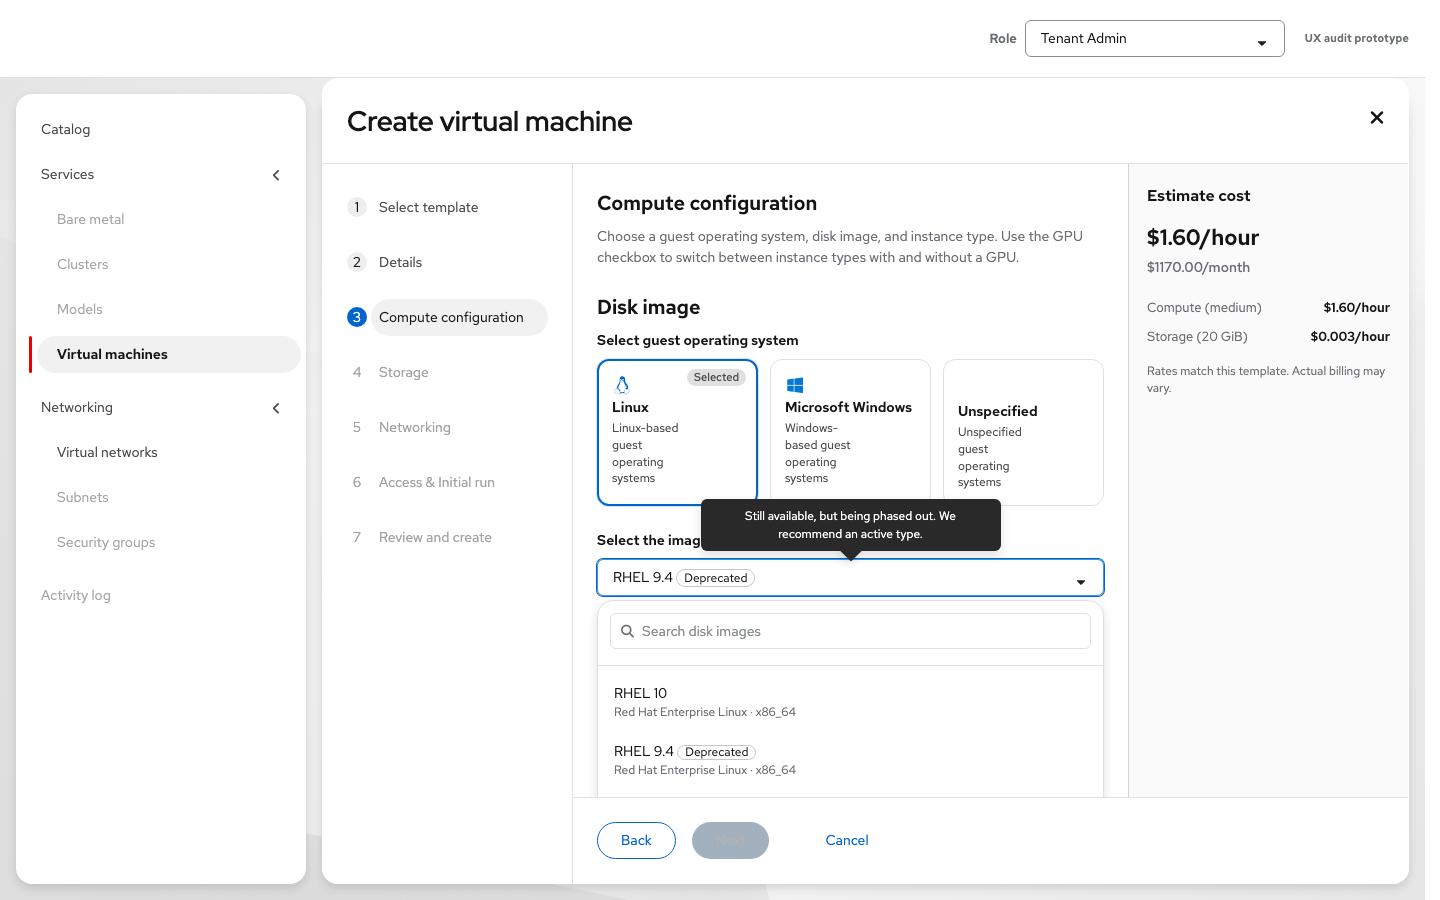
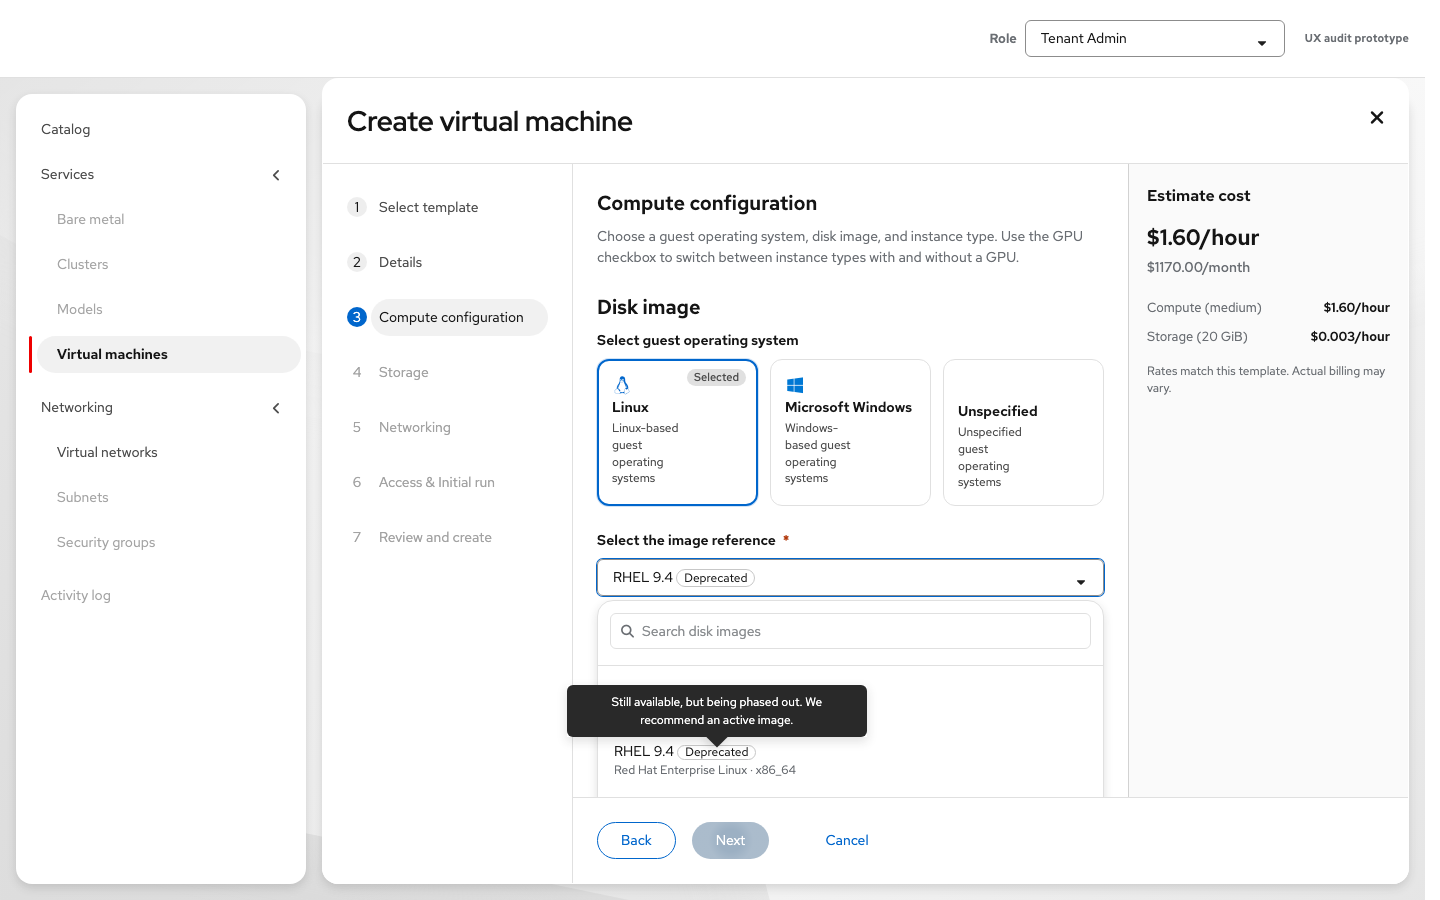
fix: anchor lifecycle tooltip to label
Assisted-by: Cursor <cursoragent@cursor.com>

Changed region(s): [[0.375, 0.7467, 0.625, 0.84], [0.4688, 0.5289, 0.7188, 0.6222]]

diff --git a/apps/app-frontend/public/vmaas-ux-prototype.html b/apps/app-frontend/public/vmaas-ux-prototype.html
@@ -8789,14 +8789,19 @@
       'Still available, but being phased out. We recommend an active type.';
     const INSTANCE_TYPE_OBSOLETE_TOOLTIP = 'Unavailable for new VMs or resizes.';
 
-    function instanceTypeLifecycleLabel(lifecycle) {
+    function instanceTypeLifecycleLabel(lifecycle, resource = 'instance type') {
       if (lifecycle !== 'Deprecated' && lifecycle !== 'Obsolete') return '';
-      return `<span class="pf-v6-c-label pf-m-outline pf-m-compact ${lifecycle === 'Deprecated' ? 'pf-m-gold' : 'pf-m-grey'}"><span class="pf-v6-c-label__content"><span class="pf-v6-c-label__text">${lifecycle}</span></span></span>`;
+      return `<span class="pf-v6-c-label pf-m-outline pf-m-compact ${lifecycle === 'Deprecated' ? 'pf-m-gold' : 'pf-m-grey'}" data-pf-tooltip="${richSelectEsc(instanceTypeLifecycleTooltip(lifecycle, resource))}"><span class="pf-v6-c-label__content"><span class="pf-v6-c-label__text">${lifecycle}</span></span></span>`;
     }
 
-    function instanceTypeLifecycleTooltip(lifecycle) {
-      return lifecycle === 'Deprecated' ? INSTANCE_TYPE_DEPRECATED_TOOLTIP
-        : lifecycle === 'Obsolete' ? INSTANCE_TYPE_OBSOLETE_TOOLTIP : '';
+    function instanceTypeLifecycleTooltip(lifecycle, resource = 'instance type') {
+      if (lifecycle === 'Deprecated') return resource === 'disk image'
+        ? 'Still available, but being phased out. We recommend an active image.'
+        : INSTANCE_TYPE_DEPRECATED_TOOLTIP;
+      if (lifecycle === 'Obsolete') return resource === 'disk image'
+        ? 'Unavailable for new VMs or catalog items.'
+        : INSTANCE_TYPE_OBSOLETE_TOOLTIP;
+      return '';
     }
 
     function vmResizeGpuSummary(id) {
@@ -9368,7 +9373,7 @@
               ariaExpanded: m.menuOpen,
               ariaControls: 'edit-compute-menu',
               stacked: true,
-              tooltip: selectedParts.lifecycle === 'Deprecated' ? INSTANCE_TYPE_DEPRECATED_TOOLTIP : '',
+              tooltip: '',
               mainHtml: `
                 <span class="rich-select__toggle-label">${richSelectEsc(selectedParts.title)} ${instanceTypeLifecycleLabel(selectedParts.lifecycle)}</span>
                 ${toggleDesc ? `<span class="rich-select__toggle-desc">${richSelectEsc(toggleDesc)}</span>` : ''}
@@ -11030,8 +11035,7 @@
     }
 
     function instanceTypeOptionTooltip(title, lifecycle) {
-      const lifecycleTooltip = instanceTypeLifecycleTooltip(lifecycle);
-      return [String(title).length > 28 ? title : '', lifecycleTooltip].filter(Boolean).join('. ');
+      return String(title).length > 28 ? title : '';
     }
 
     /**
@@ -11058,6 +11062,7 @@
       describedBy = '',
       hiddenInputId = '',
       emptyNoun = 'options',
+      resourceNoun = 'instance type',
       footerHtml = '',
     }) {
       const selected = selectedOption || options.find(o => o.id === selectedId);
@@ -11079,8 +11084,8 @@
       const useStacked = !!(stacked && selected?.desc);
       const toggleMain = selected
         ? (useStacked
-          ? `<span class="rich-select__toggle-label">${richSelectEsc(selected.title)} ${instanceTypeLifecycleLabel(selected.lifecycle)}</span><span class="rich-select__toggle-desc">${richSelectEsc(selected.desc)}</span>`
-          : `<span class="rich-select__toggle-label">${richSelectEsc(selected.title)} ${instanceTypeLifecycleLabel(selected.lifecycle)}</span>`)
+          ? `<span class="rich-select__toggle-label">${richSelectEsc(selected.title)} ${instanceTypeLifecycleLabel(selected.lifecycle, resourceNoun)}</span><span class="rich-select__toggle-desc">${richSelectEsc(selected.desc)}</span>`
+          : `<span class="rich-select__toggle-label">${richSelectEsc(selected.title)} ${instanceTypeLifecycleLabel(selected.lifecycle, resourceNoun)}</span>`)
         : `<span class="rich-select__toggle-label">${richSelectEsc(placeholder)}</span>`;
       const controlExtra = [
         selected ? '' : 'pf-m-placeholder',
@@ -11096,7 +11101,7 @@
             ariaControls: menuId,
             stacked: useStacked,
             extraClass: controlExtra,
-            tooltip: selected?.lifecycle === 'Deprecated' ? INSTANCE_TYPE_DEPRECATED_TOOLTIP : '',
+            tooltip: '',
             mainHtml: toggleMain,
           })}
           <div class="pf-v6-c-menu rich-select__menu" id="${menuId}" role="listbox" ${open ? '' : 'hidden'}>
@@ -11110,10 +11115,10 @@
               ${filtered.map(o => `
                 <button type="button" class="pf-v6-c-menu__item rich-select__option ${o.id === selectedId ? 'pf-m-selected' : ''} ${o.disabled ? 'pf-m-disabled' : ''}"
                   ${optionAttr}="${richSelectEsc(o.id)}" role="option" ${o.disabled ? 'aria-disabled="true"' : ''}
-                  ${instanceTypeOptionTooltip(o.title, o.lifecycle) ? `data-pf-tooltip="${richSelectEsc(instanceTypeOptionTooltip(o.title, o.lifecycle))}"` : ''} aria-label="${richSelectEsc(`${o.title}${o.desc ? `. ${o.desc}` : ''}${o.lifecycle ? `. ${o.lifecycle}. ${instanceTypeLifecycleTooltip(o.lifecycle)}` : ''}`)}">
+                  ${instanceTypeOptionTooltip(o.title, o.lifecycle) ? `data-pf-tooltip="${richSelectEsc(instanceTypeOptionTooltip(o.title, o.lifecycle))}"` : ''} aria-label="${richSelectEsc(`${o.title}${o.desc ? `. ${o.desc}` : ''}${o.lifecycle ? `. ${o.lifecycle}. ${instanceTypeLifecycleTooltip(o.lifecycle, resourceNoun)}` : ''}`)}">
                   <span class="pf-v6-c-menu__item-main">
                     <span class="rich-select__option-body">
-                      <span class="rich-select__option-title instance-type-option-title">${richSelectEsc(o.title)} ${instanceTypeLifecycleLabel(o.lifecycle)}</span>
+                      <span class="rich-select__option-title instance-type-option-title">${richSelectEsc(o.title)} ${instanceTypeLifecycleLabel(o.lifecycle, resourceNoun)}</span>
                       ${o.desc ? `<span class="rich-select__option-desc">${richSelectEsc(o.desc)}</span>` : ''}
                     </span>
                   </span>
@@ -16670,11 +16675,13 @@
         }
       });
       document.addEventListener('focusin', e => {
-        const trigger = e.target.closest('[data-pf-tooltip]');
+        const trigger = e.target.querySelector?.('.pf-v6-c-label[data-pf-tooltip]')
+          || e.target.closest('[data-pf-tooltip]');
         if (trigger) showPfTooltip(trigger);
       });
       document.addEventListener('focusout', e => {
-        if (e.target.closest('[data-pf-tooltip]')) hidePfTooltip();
+        if (e.target.querySelector?.('.pf-v6-c-label[data-pf-tooltip]')
+          || e.target.closest('[data-pf-tooltip]')) hidePfTooltip();
       });
       document.addEventListener('keydown', e => {
         if (e.key === 'Escape') hidePfTooltip();
@@ -19343,7 +19350,7 @@
                     ariaExpanded: state.vmComputeMenuOpen,
                     stacked: true,
                     extraClass: state.fieldErrors.computeResource ? 'pf-m-error' : '',
-                    tooltip: selectedComputeFresh.lifecycle === 'Deprecated' ? INSTANCE_TYPE_DEPRECATED_TOOLTIP : '',
+                    tooltip: '',
                     mainHtml: `
                       <span class="rich-select__toggle-label" id="f-compute-resource">${d.computeResource ? selectedComputeFresh.title : 'Select an instance type'} ${instanceTypeLifecycleLabel(selectedComputeFresh.lifecycle)}</span>
                       ${vmComputeToggleDesc ? `<span class="rich-select__toggle-desc">${vmComputeToggleDesc}</span>` : ''}
@@ -19434,6 +19441,7 @@
                 placeholder: 'Select a disk image',
                 optionAttr: 'data-vm-disk-image',
                 emptyNoun: 'disk images',
+                resourceNoun: 'disk image',
                 invalid: !!state.fieldErrors.diskImage,
                 describedBy: state.fieldErrors.diskImage ? 'err-diskImage' : '',
                 options: filteredForFamily.map(img => ({
@@ -21385,13 +21393,14 @@
       { name: 'vm-type-1-xlarge', lifecycle: 'Active', cpu: 4, memoryGiB: 32, gpus: null, gpuPci: null, gpuResource: null, created: '11/13/2023, 14:05' },
     ];
 
-    function lifecycleLabelHtml(state) {
+    function lifecycleLabelHtml(state, resource = 'instance type') {
       const key = String(state || '').toLowerCase();
       const mod = (key === 'active' || key === 'available') ? 'pf-m-active'
         : key === 'obsolete' ? 'pf-m-obsolete'
         : key === 'deprecated' ? 'pf-m-deprecated'
         : 'pf-m-obsolete';
-      return `<span class="lifecycle-label ${mod}">${String(state || '—').replace(/</g, '&lt;')}</span>`;
+      const explanation = instanceTypeLifecycleTooltip(state, resource);
+      return `<span class="lifecycle-label ${mod}" ${explanation ? `data-pf-tooltip="${richSelectEsc(explanation)}" tabindex="0"` : ''}>${richSelectEsc(state || '—')}</span>`;
     }
 
     function itField(label, valueHtml) {
@@ -22760,6 +22769,7 @@
               placeholder: 'Select a disk image',
               optionAttr: 'data-ci-disk-image',
               emptyNoun: 'disk images',
+              resourceNoun: 'disk image',
               invalid: !!state.fieldErrors.ciDiskImage,
               describedBy: state.fieldErrors.ciDiskImage ? 'err-ciDiskImage' : '',
               options: filteredForFamily.map(img => ({
@@ -25249,7 +25259,7 @@
         : '';
 
       let overviewFields = `
-        ${itField('Lifecycle', lifecycleLabelHtml(di.lifecycle))}
+        ${itField('Lifecycle', lifecycleLabelHtml(di.lifecycle, 'disk image'))}
         ${itField('Visibility', String(di.scope || '—').replace(/</g, '&lt;'))}
         ${itField('Created', String(di.created || '—').replace(/</g, '&lt;'))}
       `;
@@ -25340,7 +25350,7 @@
         return `
         <tr class="pf-v6-c-table__tr">
           <td class="pf-v6-c-table__td"><a href="#" class="pf-v6-c-button pf-m-link pf-m-inline" data-disk-image="${String(di.name).replace(/"/g, '&quot;')}">${String(di.name).replace(/</g, '&lt;')}</a></td>
-          <td class="pf-v6-c-table__td">${lifecycleLabelHtml(di.lifecycle)}</td>
+          <td class="pf-v6-c-table__td">${lifecycleLabelHtml(di.lifecycle, 'disk image')}</td>
           <td class="pf-v6-c-table__td">${String(formatDiskImageGuestOs(di.guestOs)).replace(/</g, '&lt;')}</td>
           <td class="pf-v6-c-table__td">${String(arch).replace(/</g, '&lt;')}</td>
           <td class="pf-v6-c-table__td">${String(di.scope || '—').replace(/</g, '&lt;')}</td>

diff --git a/docs/instance-type-lifecycle-selection.md b/docs/instance-type-lifecycle-selection.md
@@ -12,7 +12,7 @@ Every option uses the instance type name as its first line and CPU, memory, and,
 Long names wrap to two lines. Keep the description below the name. If the name exceeds two lines, truncate it and show the full name on hover or keyboard focus while preserving the full accessible name. The same treatment applies in the Instance types list.
 
 - **Active:** selectable without an additional label.
-- **Deprecated:** selectable with a **Deprecated** label. On hover or focus, show: “Still available, but being phased out. We recommend an active type.” Keep the label visible after selection.
+- **Deprecated:** selectable with a **Deprecated** label. Anchor its tooltip to the label, not the whole menu option. On hover or focus, show: “Still available, but being phased out. We recommend an active type.” Keep the label visible after selection.
 - **Obsolete:** omit from menus for new VMs, catalog items, and resizes. New targets cannot use an Obsolete type.
 
 An existing VM or catalog item that uses a Deprecated or Obsolete type still displays its current type and lifecycle label on its details page. Do not silently replace the current value when the edit form opens. If the current type is Obsolete, show it as the existing value and explain that a different type must be chosen for a new VM or resize. Keep Obsolete out of the menu of new targets. The UI must receive lifecycle status from the instance type data rather than infer it from the name.
@@ -20,6 +20,7 @@ An existing VM or catalog item that uses a Deprecated or Obsolete type still dis
 If a selected catalog item or template still has an Obsolete type as its default, the Create VM wizard must not silently substitute another type or create the VM with that default. If instance type is editable, require a valid replacement. If it is locked, explain that the user must choose a different catalog item.
 
 This lifecycle rule also applies to other selectable resources, including disk images: keep Deprecated resources available and visibly labeled for as long as the API reports them as Deprecated. They may remain in that state for a long time. Reserve Obsolete for resources unavailable as new choices; preserve an existing selection in its detail and edit views.
+For disk images, the label tooltip reads: “Still available, but being phased out. We recommend an active image.”
 
 Related: [VM resize handoff](osac-4281-vm-resize-handoff.md) · [OSAC-7656 lifecycle bug](https://redhat.atlassian.net/browse/OSAC-7656) · [OSAC-4281 resize](https://redhat.atlassian.net/browse/OSAC-4281)
 

diff --git a/docs/disk-images-ux-handoff.md b/docs/disk-images-ux-handoff.md
@@ -7,6 +7,7 @@ Interactive mock: [Disk images, Cloud provider admin](https://osac-project.githu
 Disk images are provider-managed references with metadata, visibility, and lifecycle controls. The list uses compact PatternFly pagination above and below the results: an item-range dropdown plus Previous and Next. The dropdown changes items per page (10, 20, 50, or 100). Filtering resets to the first page.
 
 Deprecated disk images remain selectable in Create VM and Create Catalog Item, with a visible **Deprecated** label and an explanation on hover or focus. They may remain Deprecated for a long time, so hiding them would make the state behave like Obsolete. Obsolete images are unavailable as new choices; an existing use remains visible until replaced.
+Anchor the tooltip to the **Deprecated** label itself, not the whole option. Its text is: “Still available, but being phased out. We recommend an active image.”
 
 ![Disk images list with compact pagination](screenshots/latest-ux/disk-images-list.png)
 

diff --git a/docs/catalog-items-ux-handoff.md b/docs/catalog-items-ux-handoff.md
@@ -14,6 +14,7 @@ Compute configuration sets guest OS, disk image, and instance type. Instance typ
 Long instance type names wrap to two lines above their resource description. If a name still does not fit, truncate it and reveal the full name on hover or keyboard focus. Keep the full name available to screen readers, including in the Instance types list.
 
 The same lifecycle distinction applies to disk images in the catalog item wizard: keep Deprecated options selectable and labeled; omit Obsolete images from new choices.
+Show the explanation beside the **Deprecated** label on hover or option focus, rather than on the whole option.
 
 The provider can edit an instance type from its details page. Edit opens on **Configuration**, with vCPUs, memory, and GPU fields visible immediately; General remains available for scope, description, and labels. The name stays read-only.
 

diff --git a/docs/create-vm-ux-handoff.md b/docs/create-vm-ux-handoff.md
@@ -14,6 +14,7 @@ Long instance type names wrap to two lines above the resource description. If th
 Deprecated types remain selectable with a label and tooltip. Obsolete types are omitted from new choices. If a template defaults to an Obsolete type, require a replacement when editable or direct the user to another catalog item when locked. See [instance type lifecycle selection](instance-type-lifecycle-selection.md).
 
 Apply the same lifecycle distinction to disk images: a Deprecated image remains selectable and labeled; an Obsolete image is unavailable for a new VM.
+The explanation appears when hovering the **Deprecated** label or focusing its option, rather than hovering anywhere in the option.
 
 The VM list uses compact PatternFly pagination: an item-range dropdown, Previous, and Next. It appears above and below card and table views.
 
